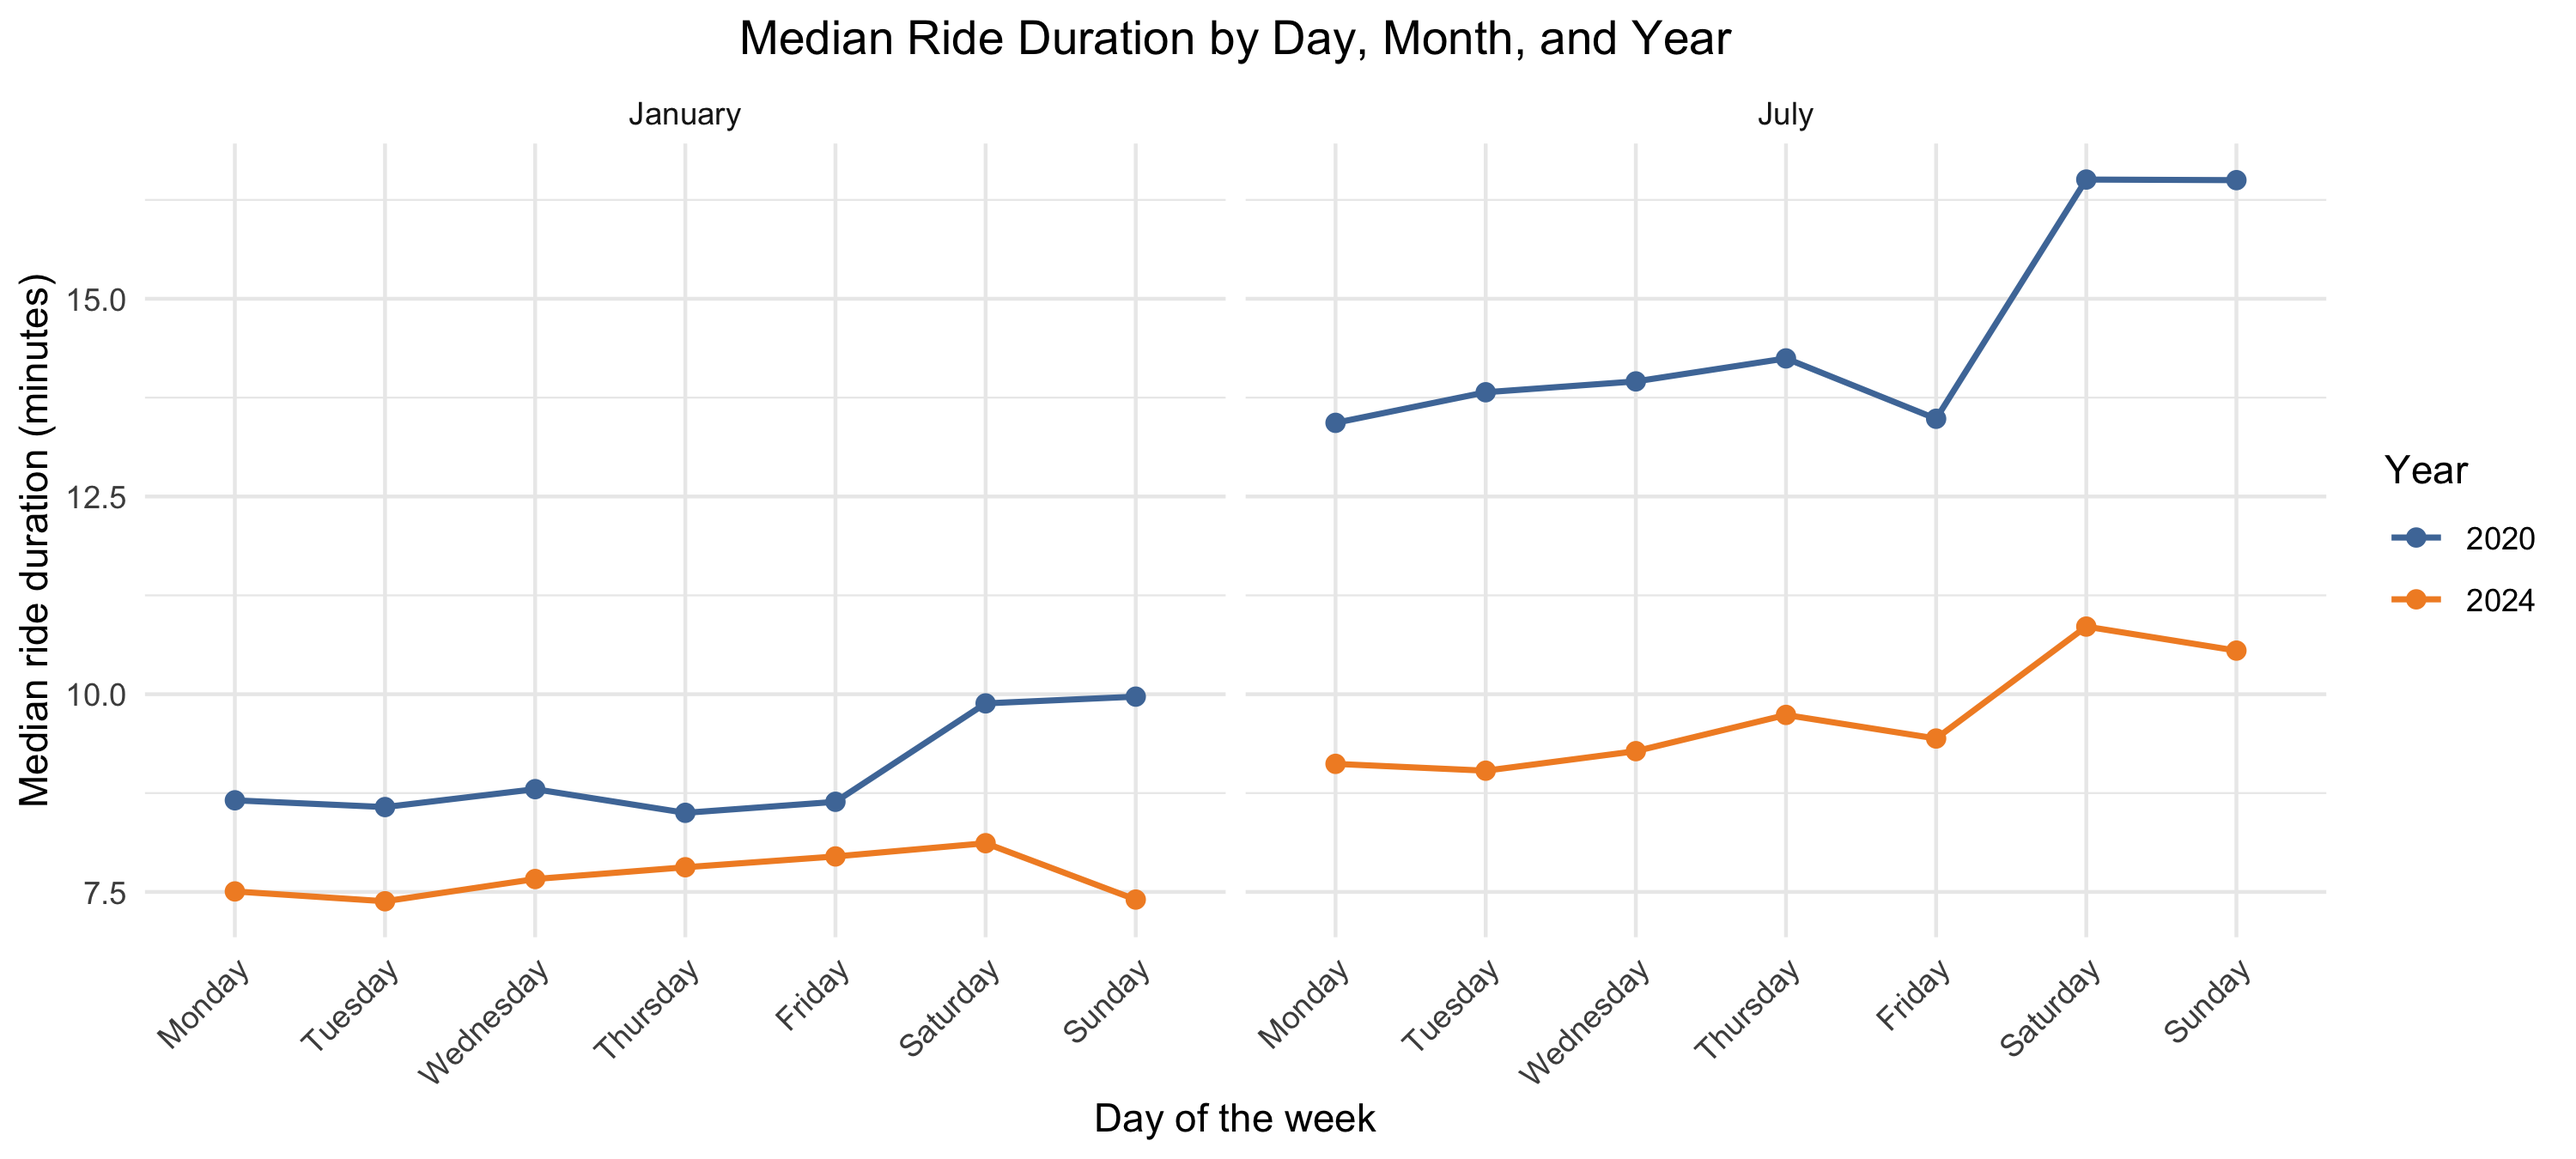
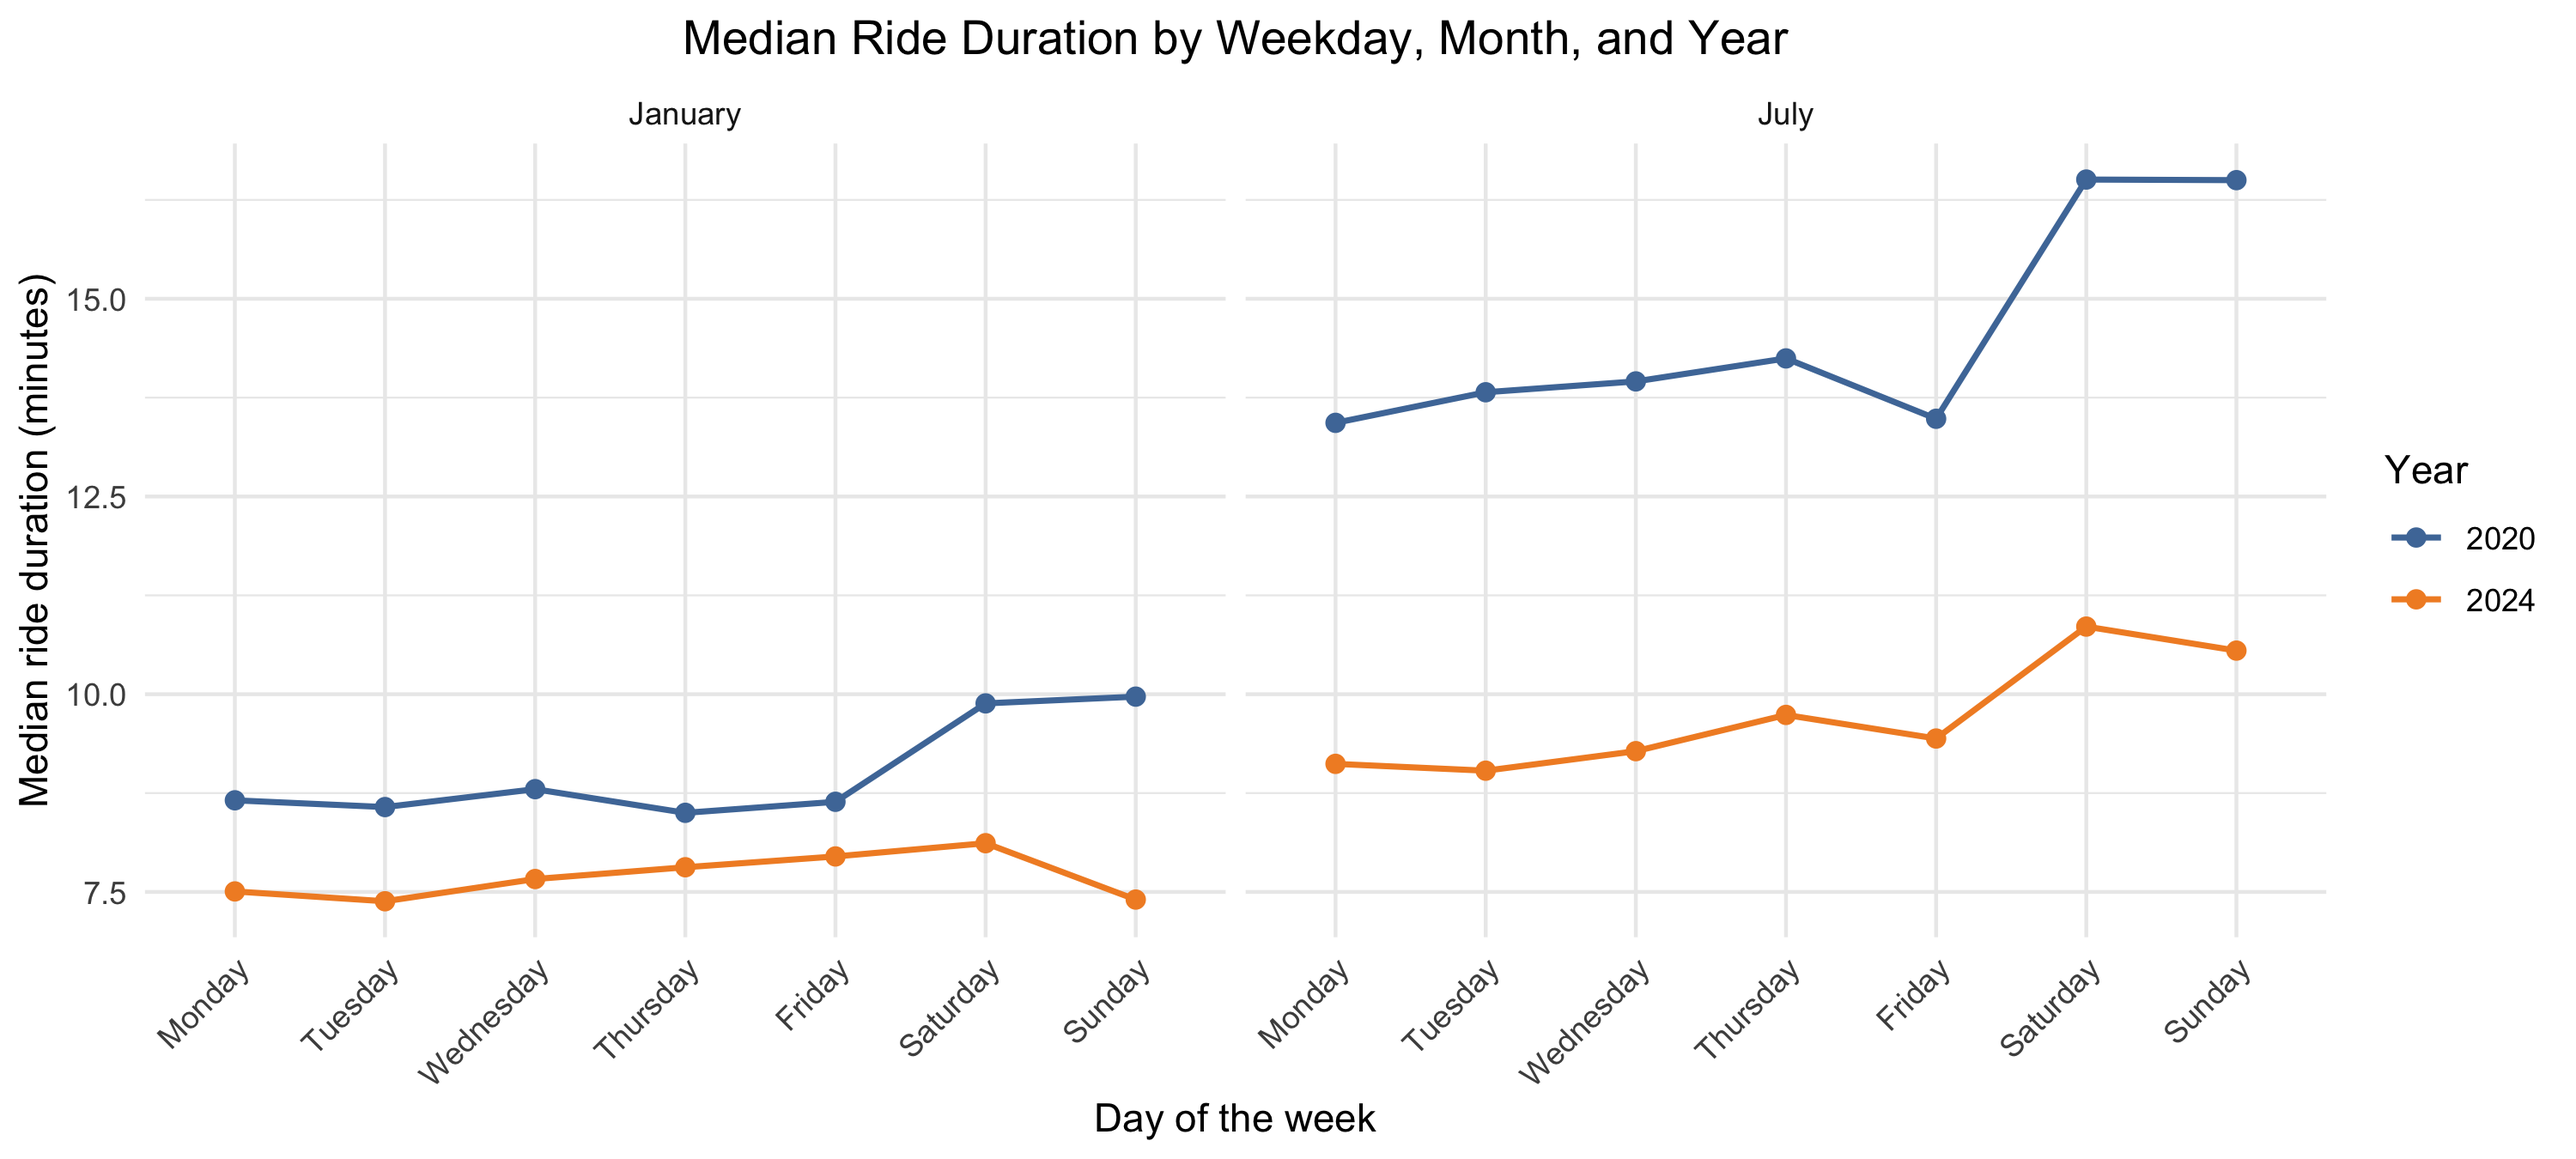
- Compare median ride duration by weekday, month, and year - Plot 2024 ride-duration distributions by month, membership, and bike type

Changed region(s): [[0.248, 0.0, 0.682, 0.0622]]

diff --git a/p8105_hw3_sw4257.md b/p8105_hw3_sw4257.md
@@ -277,7 +277,7 @@ and 28 women. In the “High school equivalent” category, there were more
 men than women, with 35 men and 23 women.
 
 ``` r
-age_plot = ggplot(nhanes_covar, aes(x = sex, y = age, fill = sex)) +
+ggplot(nhanes_covar, aes(x = sex, y = age, fill = sex)) +
   geom_violin(trim = FALSE, alpha = 0.4) +
   geom_boxplot(width = 0.15, outlier.alpha = 0.3) +
   facet_wrap(~education, nrow = 1) +
@@ -288,8 +288,6 @@ age_plot = ggplot(nhanes_covar, aes(x = sex, y = age, fill = sex)) +
   guides(fill = "none") +
   theme_minimal() +
   theme(plot.title = element_text(hjust = 0.5))
-
-age_plot
 ```
 
 ![](p8105_hw3_sw4257_files/figure-gfm/Age_distribution_plot-1.png)<!-- -->
@@ -309,8 +307,7 @@ nhanes_total = nhanes_df |>
   group_by(seqn, sex, age, bmi, education) |>
   summarize(total_activity = sum(mims), .groups = "drop")
 
-total_activity_plot = 
-  ggplot(nhanes_total, aes(x = age, y = total_activity, color = sex)) +
+ggplot(nhanes_total, aes(x = age, y = total_activity, color = sex)) +
   geom_point(alpha = 0.6) +
   geom_smooth(se = FALSE) +
   facet_wrap(~education, nrow = 1) +
@@ -322,8 +319,6 @@ total_activity_plot =
        color = "Sex") +
   theme_minimal() +
   theme(plot.title = element_text(hjust = 0.5))
-
-total_activity_plot
 ```
 
 ![](p8105_hw3_sw4257_files/figure-gfm/Total_activity_by_age-1.png)<!-- -->
@@ -348,8 +343,7 @@ activity_profile = nhanes_df |>
   group_by(education, sex, hour) |>
   summarize(mean_mims = mean(mims), .groups = "drop")
 
-daily_activity_plot = 
-  ggplot(activity_profile, aes(x = hour, y = mean_mims, color = sex)) +
+ggplot(activity_profile, aes(x = hour, y = mean_mims, color = sex)) +
   geom_line(alpha = 0.4, linewidth = 0.4) +
   geom_smooth(method = "loess", se = FALSE, span = 0.2, linewidth = 1) +
   facet_wrap(~education, nrow = 1) +
@@ -365,8 +359,6 @@ daily_activity_plot =
   theme(plot.title = element_text(hjust = 0.5),
         legend.position = "bottom",
         panel.spacing.x = grid::unit(0.5, "cm"))
-
-daily_activity_plot
 ```
 
 ![](p8105_hw3_sw4257_files/figure-gfm/Daily_activity_pattern-1.png)<!-- -->
@@ -487,30 +479,69 @@ median_duration_by_day = citibike_df |>
   summarize(median_duration = median(duration),
             .groups = "drop")
 
-duration_plot = ggplot(median_duration_by_day,
-                      aes(x = weekdays, 
-                          y = median_duration, 
-                          color = factor(year),
-                          group = year)) +
+ggplot(median_duration_by_day,
+       aes(x = weekdays, 
+           y = median_duration, 
+           color = factor(year),
+           group = year)) +
   geom_line(linewidth = 0.8) +
   geom_point(size = 2) +
   facet_wrap(~month, nrow = 1) +
   scale_color_manual(values = c("2020" = "#4E79A7", "2024" = "#F28E2B")) +
-  labs(title = "Median Ride Duration by Day, Month, and Year",
+  labs(title = "Median Ride Duration by Weekday, Month, and Year",
        x = "Day of the week",
        y = "Median ride duration (minutes)",
        color = "Year") +
   theme_minimal() +
   theme(plot.title = element_text(hjust = 0.5),
         axis.text.x = element_text(angle = 45, hjust = 1))
-
-duration_plot
 ```
 
-![](p8105_hw3_sw4257_files/figure-gfm/median_duration_by_day-1.png)<!-- -->
+![](p8105_hw3_sw4257_files/figure-gfm/Median_duration_by_day-1.png)<!-- -->
 
 Median ride durations were higher in July than in January in both years,
 and were consistently higher in 2020 than in the corresponding months of
 2024. Ride durations tended to be longer on weekends, especially in
 July, although this pattern was less pronounced in January 2024. Weekday
 medians were relatively similar within each month.
+
+## Ride Duration by Month, Membership Status, and Bike Type in 2024
+
+``` r
+citibike_2024 = citibike_df |>
+  filter(year == 2024) |>
+  drop_na(duration, month, member_casual, rideable_type)
+
+ggplot(citibike_2024,
+       aes(x = rideable_type, y = duration, fill = rideable_type)) +
+  geom_violin(trim = TRUE, scale = "width", alpha = 0.7) +
+  geom_boxplot(width = 0.15, outlier.shape = NA, alpha = 0.8) +
+  facet_grid(member_casual ~ month, switch = "y") +
+  scale_y_log10(breaks = c(1, 2, 5, 10, 20, 50, 100, 200),
+                labels = scales::label_number()) +
+  scale_fill_manual(values = c("Classic bike" = "#4E79A7", 
+                               "Electric bike" = "#F28E2B")) +
+  labs(title = "Ride Duration by Month, Membership Status, and Bike Type in 2024",
+       subtitle = "Boxes show medians and interquartile ranges; the y-axis uses a log scale",
+       x = "Bike type",
+       y = "Ride duration (minutes)",
+       fill = "Bike type") +
+  theme_minimal() +
+  theme(plot.title = element_text(hjust = 0.5),
+        plot.subtitle = element_text(hjust = 0.5),
+        strip.placement = "outside",
+        strip.background = element_rect(fill = "grey95", color = NA),
+        strip.text = element_text(face = "bold"),
+        legend.position = "none")
+```
+
+![](p8105_hw3_sw4257_files/figure-gfm/Ride_duration_2024_by_month_membership_bike_type-1.png)<!-- -->
+
+Casual riders generally had longer rides than members across both months
+and bike types. Among casual riders, classic-bike rides had higher
+median durations than electric-bike rides in both months. Among members,
+the bike-type differences were smaller, with electric-bike rides having
+slightly higher medians. Median ride durations were generally higher in
+July than in January, particularly for casual riders. The distributions
+were right-skewed and overlapped across groups; the logarithmic y-axis
+helps show variation across the full range of ride durations.
